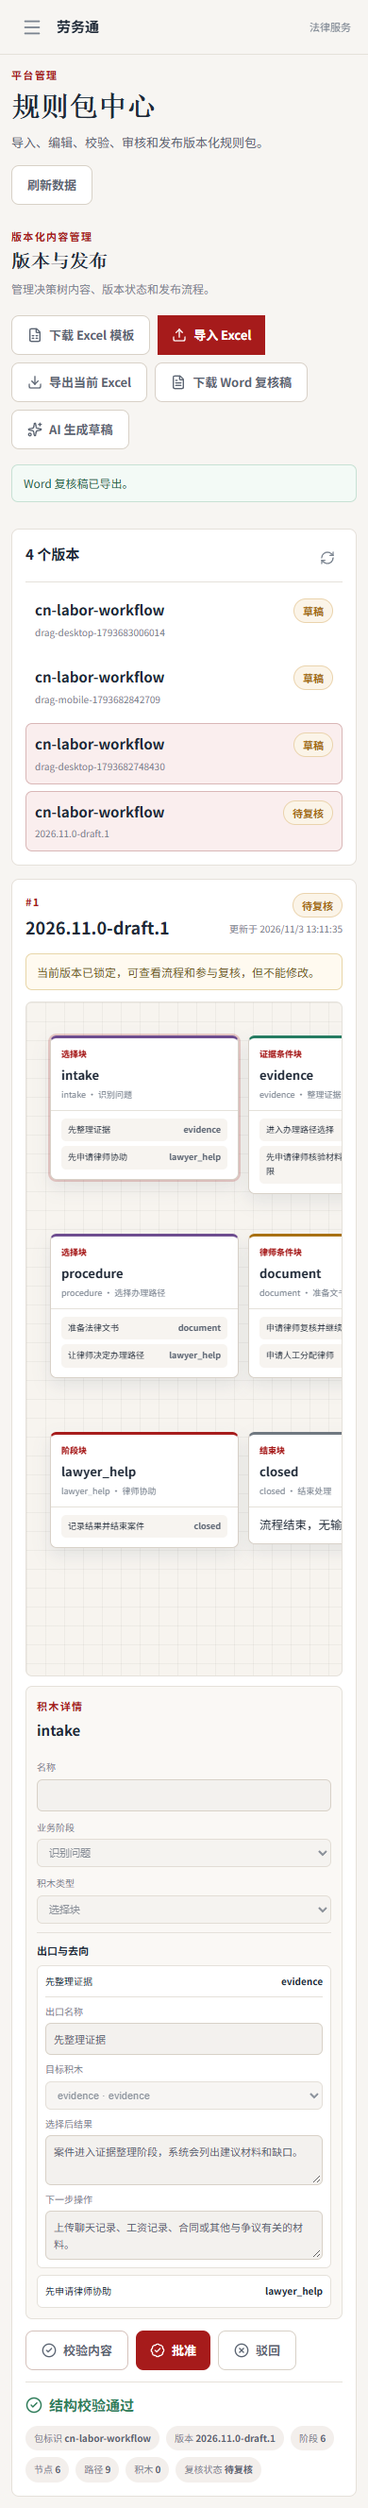
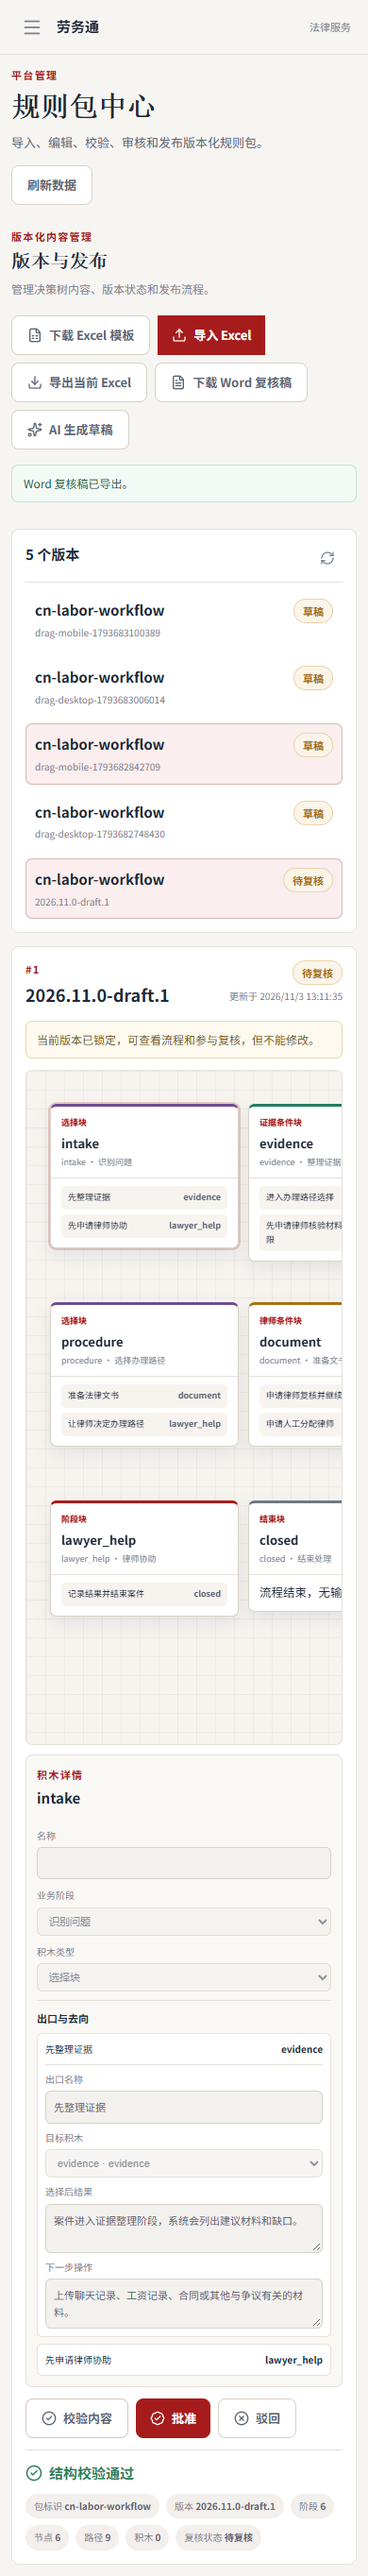
chore: standardize manual review wording

diff --git a/frontend/e2e/demo-flow.spec.ts b/frontend/e2e/demo-flow.spec.ts
@@ -321,6 +321,9 @@ test('admin can validate a rule package', async ({ page }, testInfo) => {
   await expect(page.getByText('导入 Excel', { exact: true })).toBeVisible()
   await page.getByRole('button', { name: 'AI 生成草稿' }).click()
   await expect(page.getByRole('heading', { name: '描述需要的流程规则' })).toBeVisible()
+  await expect(
+    page.getByText('AI 会以当前内置规则包为基础生成草稿，生成后仍需人工复核校验。'),
+  ).toBeVisible()
   await page.getByRole('button', { name: '取消', exact: true }).click()
   const downloadPromise = page.waitForEvent('download')
   await page.getByRole('button', { name: '下载 Excel 模板' }).click()

diff --git a/frontend/src/components/RulePackageCenter.vue b/frontend/src/components/RulePackageCenter.vue
@@ -60,7 +60,7 @@
       <div>
         <span class="eyebrow">AI 辅助配置</span>
         <h3>描述需要的流程规则</h3>
-        <p>AI 会以当前内置规则包为基础生成草稿，生成后仍需人工校验和法学复核。</p>
+        <p>AI 会以当前内置规则包为基础生成草稿，生成后仍需人工复核校验。</p>
       </div>
       <textarea
         v-model="aiInstruction"

diff --git a/backend/alembic/versions/c4e8a1b2d3f6_replace_review_terms.py b/backend/alembic/versions/c4e8a1b2d3f6_replace_review_terms.py
@@ -1,0 +1,89 @@
+"""replace legal review wording with manual review wording
+
+Revision ID: c4e8a1b2d3f6
+Revises: f8a1c2d3e4b5
+Create Date: 2026-11-03 13:30:00
+"""
+
+import hashlib
+import json
+from collections.abc import Sequence
+from typing import Any
+
+import sqlalchemy as sa
+
+from alembic import op
+
+revision: str = "c4e8a1b2d3f6"
+down_revision: str | None = "f8a1c2d3e4b5"
+branch_labels: str | Sequence[str] | None = None
+depends_on: str | Sequence[str] | None = None
+
+REPLACEMENTS = [
+    ("具体依据待法学负责人确认", "具体依据待人工复核人员确认"),
+    ("法学内容负责人", "内容复核人员"),
+    ("法学内容复核", "人工复核校验"),
+    ("待法学复核", "待人工复核"),
+    ("法学复核意见", "人工复核意见"),
+    ("法学复核", "人工复核"),
+    ("法学负责人", "人工复核人员"),
+    ("法律复核", "人工复核校验"),
+]
+
+
+def upgrade() -> None:
+    _replace_existing_content(REPLACEMENTS)
+
+
+def downgrade() -> None:
+    _replace_existing_content(
+        [(new, old) for old, new in REPLACEMENTS],
+    )
+
+
+def _replace_existing_content(replacements: list[tuple[str, str]]) -> None:
+    table = sa.table(
+        "rule_packages",
+        sa.column("id", sa.Integer),
+        sa.column("content_json", sa.JSON),
+        sa.column("checksum", sa.String),
+    )
+    bind = op.get_bind()
+    rows = bind.execute(
+        sa.select(table.c.id, table.c.content_json)
+    ).mappings()
+    for row in rows:
+        content: Any = row["content_json"]
+        if isinstance(content, str):
+            try:
+                content = json.loads(content)
+            except json.JSONDecodeError:
+                continue
+        if not isinstance(content, dict):
+            continue
+        serialized = json.dumps(
+            content,
+            ensure_ascii=False,
+            sort_keys=True,
+            separators=(",", ":"),
+        )
+        updated_serialized = _replace_text(serialized, replacements)
+        if updated_serialized == serialized:
+            continue
+        updated = json.loads(updated_serialized)
+        checksum = hashlib.sha256(updated_serialized.encode()).hexdigest()
+        bind.execute(
+            table.update()
+            .where(table.c.id == row["id"])
+            .values(content_json=updated, checksum=checksum)
+        )
+
+
+def _replace_text(
+    value: str,
+    replacements: list[tuple[str, str]],
+) -> str:
+    result = value
+    for old, new in replacements:
+        result = result.replace(old, new)
+    return result

diff --git a/backend/app/services/rule_package_document.py b/backend/app/services/rule_package_document.py
@@ -87,14 +87,14 @@ def export_rule_package_review_docx(content: dict[str, Any]) -> bytes:
                     f"法律依据：{deadline.get('basis', '') or '待确认'}"
                 )
 
-    document.add_heading("四、法学复核意见", level=1)
+    document.add_heading("四、人工复核意见", level=1)
     document.add_paragraph("复核结论：□ 通过  □ 需修改  □ 不通过")
     document.add_paragraph("复核意见：")
     for _ in range(5):
         document.add_paragraph("_" * 72)
     document.add_paragraph("复核人：________________    复核日期：________________")
     document.add_paragraph(
-        "说明：本复核稿由系统依据规则包内容自动生成，仅用于法学内容复核、"
+        "说明：本复核稿由系统依据规则包内容自动生成，仅用于人工复核校验、"
         "版本比对和归档，不构成正式法律意见。"
     )
 

diff --git a/backend/app/services/dictionary.py b/backend/app/services/dictionary.py
@@ -3,7 +3,7 @@
 集中定义纠纷类型、案件阶段、证据类别及其识别关键词和中文标签，
 供字典接口、AI 分类和证据规则共同引用，避免前后端多处硬编码。
 
-法律内容由法学负责人复核；此模块只提供数据结构与展示映射，
+法律内容由人工复核人员校验；此模块只提供数据结构与展示映射，
 不自行确认法律内容正确性。
 """
 

diff --git a/backend/tests/test_rule_package_admin.py b/backend/tests/test_rule_package_admin.py
@@ -259,7 +259,7 @@ def test_admin_can_export_word_review_document() -> None:
     )
     text = paragraph_text + "\n" + table_text
     assert "劳务通规则包复核稿" in paragraph_text
-    assert "法学复核意见" in paragraph_text
+    assert "人工复核意见" in paragraph_text
     assert "cn-labor-workflow" not in text
     assert "pending_review" not in text
     assert "待复核" in text

diff --git a/docs/demo/演示脚本.md b/docs/demo/演示脚本.md
@@ -113,7 +113,7 @@
 2. 进入“规则包中心”，下载纯中文 Excel 模板，说明填写时不需要接触 ID。
 3. 选择草稿，展示从左侧拖拽积木到画布并调整位置。
 4. 点击“AI 生成草稿”，输入工伤咨询分支要求，展示 AI 自动生成带画布布局的草稿。
-5. 下载 Word 复核稿，说明其中只展示中文业务名称、路径和法学复核意见栏。
+5. 下载 Word 复核稿，说明其中只展示中文业务名称、路径和人工复核意见栏。
 6. 展示结构校验、提交复核、批准、发布和停用流程。
 7. 使用左侧子菜单切换“材料管理”“审计日志”“收益管理”，说明敏感操作均保留审计记录。
 8. 强调聚合话题不返回任何用户原始咨询。

diff --git a/docs/admin/规则包Excel填写说明.md b/docs/admin/规则包Excel填写说明.md
@@ -97,7 +97,7 @@
 - 不执行宏、公式、外部链接或脚本。
 - 不允许合并单元格、自行新增工作表或修改固定表头。
 - 单工作表有效数据最多 2000 行。
-- 导入内容仍需完成送审、批准和发布，不会绕过法律复核。
+- 导入内容仍需完成送审、批准和发布，不会绕过人工复核校验。
 
 ## 9. 查看与归档
 
